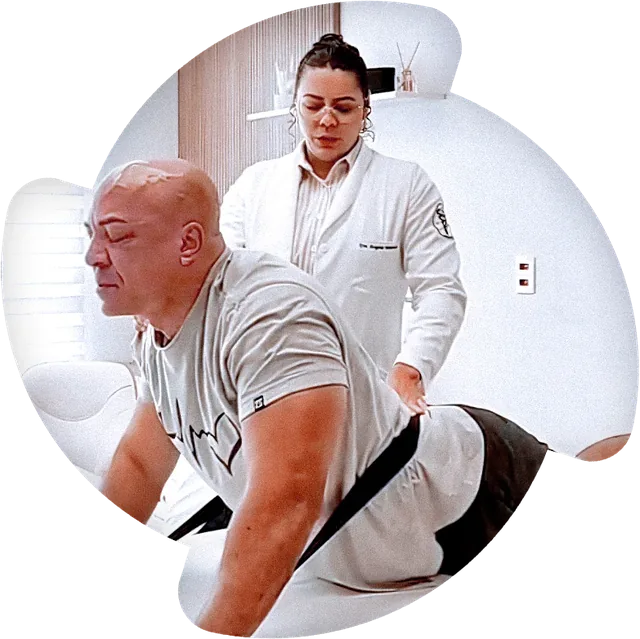
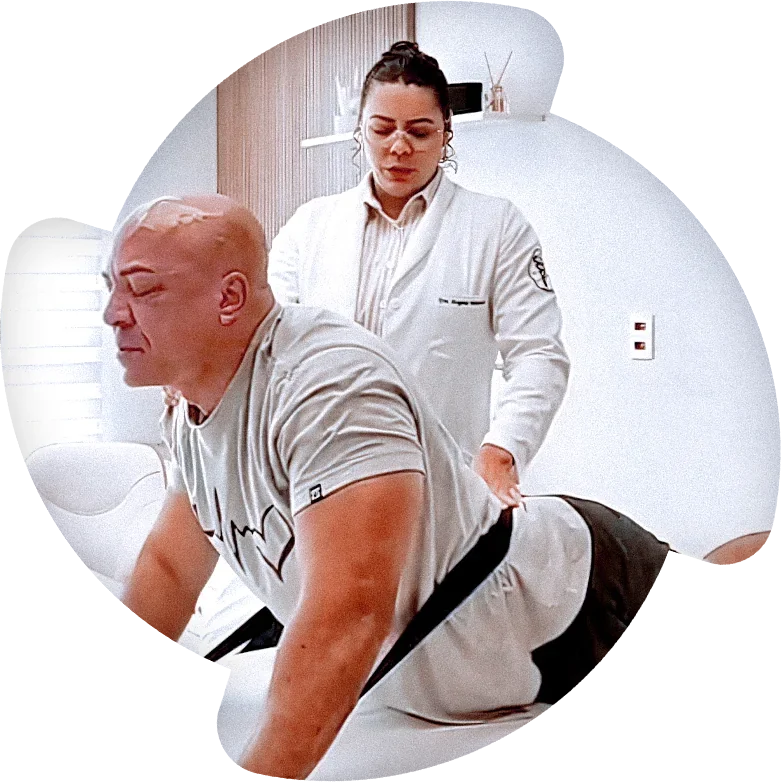
Fotos: recorte no contorno da Angela em resolução original, preenchendo o quadro

diff --git a/index.html b/index.html
@@ -154,7 +154,7 @@
       </div>
       <div class="hero-visual-wrap">
         <div class="hero-visual">
-          <img src="/assets/angela-bgs-3.webp" alt="Dra. Angela Walkyria, fisioterapeuta especialista em coluna e escoliose em Alphaville" loading="eager" fetchpriority="high" width="795" height="642">
+          <img src="/assets/angela-bgs-3.webp" alt="Dra. Angela Walkyria, fisioterapeuta especialista em coluna e escoliose em Alphaville" loading="eager" fetchpriority="high" width="1263" height="1249">
         </div>
         <div class="photo-caption">Dra. Angela Walkyria Cavalcante · CREFITO-3 128782-F</div>
       </div>
@@ -271,7 +271,7 @@
     <div class="container sobre-grid">
       <div class="sobre-visual-wrap">
         <div class="sobre-visual">
-          <img src="/assets/angela-bgs-11.webp" alt="Dra. Angela Walkyria sorrindo, de jaleco, em seu consultório em Alphaville" loading="lazy" width="925" height="706">
+          <img src="/assets/angela-bgs-11.webp" alt="Dra. Angela Walkyria sorrindo, de jaleco, em seu consultório em Alphaville" loading="lazy" width="1481" height="1413">
         </div>
         <div class="photo-caption">Consultório particular · Alphaville, Barueri</div>
       </div>

diff --git a/styles.css b/styles.css
@@ -442,10 +442,9 @@ strong { font-weight: 600; color: var(--ink-deep); }
 .sobre-visual img {
   width: 100%;
   height: 100%;
-  object-fit: contain;
-  object-position: center bottom;
+  object-fit: cover;
+  object-position: 45% top;
   display: block;
-  padding: 28px 0 0;
 }
 .hero-visual-wrap, .sobre-visual-wrap { display: flex; flex-direction: column; gap: 14px; }
 .photo-caption {
@@ -837,7 +836,7 @@ strong { font-weight: 600; color: var(--ink-deep); }
   box-shadow: 0 24px 48px rgba(27, 46, 71, 0.12);
 }
 .lp-hero-figure img { width: 100%; height: 100%; object-fit: cover; object-position: center top; }
-.lp-hero-figure.recorte img { object-fit: contain; object-position: center bottom; padding-top: 20px; }
+.lp-hero-figure.recorte img { object-fit: cover; object-position: 42% top; transform: scale(1.18); transform-origin: 50% 0; }
 
 .lp-section { padding: 110px 0; }
 .lp-section-light { background: var(--paper); }

diff --git a/escoliose.html b/escoliose.html
@@ -89,7 +89,7 @@
       <p class="hero-subtitle">Avaliação postural completa e acompanhamento fisioterapêutico individual com quem criou o primeiro ambulatório especializado em escoliose de Santana de Parnaíba.</p>
       <a href="https://wa.me/5511971762434?text=Ol%C3%A1%2C%20vim%20pelo%20site.%20Quero%20agendar%20uma%20avalia%C3%A7%C3%A3o%20de%20escoliose%20com%20a%20Dra.%20Angela" target="_blank" rel="noopener" class="btn btn-primary">Agendar avaliação postural</a>
       <div class="lp-hero-figure recorte">
-        <img src="/assets/angela-bgs-11.webp" alt="Dra. Angela Walkyria, fisioterapeuta especialista em escoliose" width="925" height="706" loading="eager">
+        <img src="/assets/angela-bgs-11.webp" alt="Dra. Angela Walkyria, fisioterapeuta especialista em escoliose" width="1481" height="1413" loading="eager">
       </div>
     </div>
   </section>
